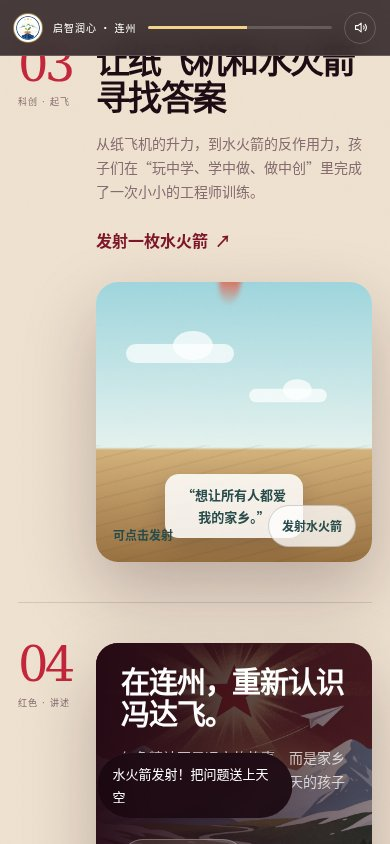
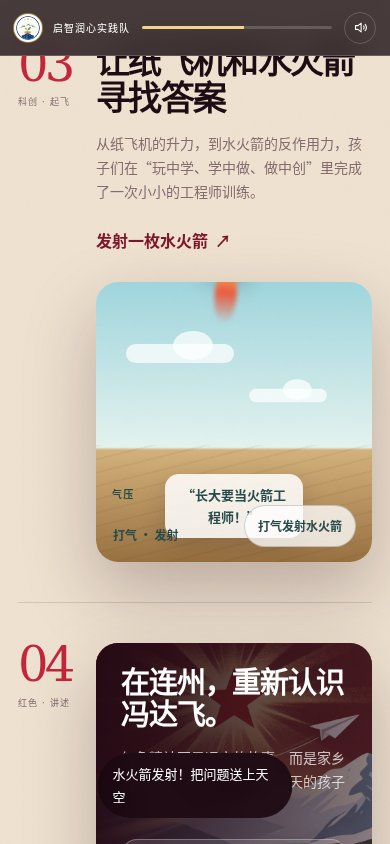
feat: 完善0120304交互游戏细节 + 顶栏仅保留'启智润心实践队'
- 顶栏去除'连州'，仅显'启智润心实践队'
- 01醒狮：照片内'三声鼓唤醒'互动（粒子+盖章+鼓点+连击进度+banner'醒'）
- 02漆扇：选色滴漆入水（4色可选，滴漆动画+入水计数,3色后纹样展开）
- 03水火箭：打气→气压条→自动发射+愿望+微震
- 04红色：翻开来信'冯达飞'故事卡(3D flip)+史实来源标注
- make_keyframes.py: 修正火箭打气时序
- 重新生成全页/hero/关键帧截图(均<10MB, RGB/100DPI)

diff --git a/index.html b/index.html
@@ -183,6 +183,7 @@
     .stage-photo figcaption{position:absolute;z-index:1;left:18px;right:18px;bottom:16px;color:#fff;font-size:12px}
     .stage-photo figcaption b{display:block;margin-bottom:2px;color:var(--gold-light);font-family:Georgia,serif;font-size:18px}
     .stage-action{display:inline-flex;align-items:center;gap:7px;margin-top:6px;border:0;padding:0;color:var(--red-deep);font-weight:800;background:transparent}
+    .stage-note{margin:0 0 10px;color:var(--red-deep);font-size:14px;font-weight:800}
 
     .interactive-tray{display:flex;flex-wrap:wrap;gap:11px;margin-top:28px}
     .tray-chip{display:inline-flex;align-items:center;gap:8px;padding:9px 12px;border:1px solid var(--line);border-radius:999px;color:var(--ink);background:rgba(255,255,255,.48);font-size:12px}
@@ -351,6 +352,56 @@
       .wish{padding-top:78px;padding-bottom:88px}.wish-form{flex-direction:column}
       .final{padding-top:95px;padding-bottom:55px}
     }
+    /* --- 01 醒狮：三声鼓唤醒 --- */
+    .stage-photo .lion-tap{
+      position:absolute;z-index:4;left:50%;top:50%;transform:translate(-50%,-50%);
+      width:92px;height:92px;border-radius:50%;border:1px solid rgba(244,211,138,.65);
+      color:var(--gold-light);background:rgba(15,6,12,.55);backdrop-filter:blur(8px);
+      display:grid;place-items:center;box-shadow:0 0 0 0 rgba(244,211,138,0);cursor:pointer;
+      transition:transform .2s ease,background .2s ease;
+    }
+    .stage-photo .lion-tap:hover{transform:translate(-50%,-50%) scale(1.07);background:rgba(196,38,59,.82)}
+    .stage-photo .lion-tap svg{width:38px;height:38px;pointer-events:none}
+    .stage-photo .lion-tap.ring{animation:ring .5s ease}
+    @keyframes ring{0%{box-shadow:0 0 0 0 rgba(244,211,138,.55)}100%{box-shadow:0 0 0 38px rgba(244,211,138,0)}}
+    .stage-photo .lion-tap.awake{background:rgba(196,38,59,.9)}
+    .lion-race{position:absolute;z-index:3;left:16px;top:16px;right:16px;display:flex;align-items:center;gap:9px;color:#fff;font-size:12px}
+    .lion-race b{color:var(--gold-light);letter-spacing:.14em}
+    .lion-beats{margin-left:auto;display:flex;gap:6px}
+    .lion-beats i{width:11px;height:11px;border-radius:50%;border:1px solid rgba(255,255,255,.75);background:transparent;transition:background .2s ease,border-color .2s ease}
+    .lion-beats i.on{background:var(--gold-light);border-color:var(--gold-light)}
+    .roar-word{position:absolute;z-index:4;left:50%;top:30%;transform:translate(-50%,-50%) scale(.5);opacity:0;color:var(--gold-light);font-family:Georgia,"Noto Serif SC",serif;font-size:70px;font-weight:700;letter-spacing:.04em;pointer-events:none;text-shadow:0 6px 26px rgba(0,0,0,.4);transition:opacity .3s ease,transform .3s ease}
+    .roar-word.show{opacity:1;transform:translate(-50%,-50%) scale(1)}
+
+    /* --- 02 漆扇：选色滴漆 --- */
+    .paint-swatches{position:absolute;z-index:4;left:50%;bottom:16px;transform:translateX(-50%);display:flex;gap:10px}
+    .paint-swatches .swatch{width:32px;height:32px;border-radius:50%;border:2px solid rgba(255,255,255,.9);box-shadow:0 6px 14px rgba(0,0,0,.18);cursor:pointer;transition:transform .2s ease}
+    .paint-swatches .swatch:hover{transform:scale(1.16)}
+    .paint-swatches .swatch:active{transform:scale(.9)}
+    .paint-drop{position:absolute;z-index:2;width:18px;height:18px;border-radius:50%;filter:blur(1px);opacity:0;transform:translate(-50%,-50%) scale(.4);animation:dropIn .6s ease forwards}
+    @keyframes dropIn{0%{opacity:0;transform:translate(-50%,-50%) scale(.4)}55%{opacity:1;transform:translate(-50%,-50%) scale(1.3)}100%{opacity:.92;transform:translate(-50%,-50%) scale(1)}}
+    .paint-counter{position:absolute;z-index:4;right:18px;top:16px;color:var(--red-deep);font-size:11px;letter-spacing:.1em;background:rgba(255,255,255,.72);padding:4px 9px;border-radius:999px}
+    .paint-pad.done .paint-counter{color:#fff;background:rgba(126,22,41,.4)}
+
+    /* --- 03 水火箭：打气 → 发射 --- */
+    .rocket-gauge{position:absolute;z-index:4;left:16px;bottom:54px;width:132px;color:#284c4b}
+    .rocket-gauge small{display:block;font-size:10px;letter-spacing:.12em;margin-bottom:6px;font-weight:800}
+    .rocket-gauge .bar{height:13px;border-radius:999px;background:rgba(40,76,75,.18);overflow:hidden}
+    .rocket-gauge .bar i{display:block;width:0;height:100%;border-radius:999px;background:linear-gradient(90deg,#8fd0d8,#4d9ba0);transition:width .25s ease}
+    .rocket-zone.shake{animation:shake .4s ease}
+    @keyframes shake{0%,100%{transform:translateX(0)}20%{transform:translateX(-5px)}40%{transform:translateX(5px)}60%{transform:translateX(-4px)}80%{transform:translateX(4px)}}
+
+    /* --- 04 红色：翻开来信 --- */
+    .red-flip{position:relative;margin-top:16px;perspective:1000px;cursor:pointer}
+    .red-flip .flip-inner{position:relative;transform-style:preserve-3d;transition:transform .6s cubic-bezier(.2,.75,.25,1)}
+    .red-flip.flipped .flip-inner{transform:rotateY(180deg)}
+    .red-flip .face{backface-visibility:hidden;border-radius:16px;overflow:hidden}
+    .red-flip .front{background:rgba(255,255,255,.12);border:1px solid rgba(255,255,255,.3);padding:15px 17px;color:#fff;font-size:14px;font-weight:800;display:flex;align-items:center;justify-content:space-between;gap:9px}
+    .red-flip .front .tag{font-size:10px;letter-spacing:.12em;background:rgba(196,38,59,.65);padding:3px 8px;border-radius:999px}
+    .red-flip .back{position:absolute;inset:0;transform:rotateY(180deg);background:#f8f0e5;color:#1b0d13;padding:17px 18px;font-size:13px;line-height:1.72}
+    .red-flip .back b{color:var(--red-deep);font-family:Georgia,"Noto Serif SC",serif;font-size:16px}
+    .red-flip .back .cite{display:block;margin-top:10px;color:var(--muted);font-size:11px}
+
     @media (prefers-reduced-motion:reduce){
       html{scroll-behavior:auto}
       *,*::before,*::after{animation-duration:.01ms!important;animation-iteration-count:1!important;transition-duration:.01ms!important}
@@ -361,7 +412,7 @@
   <nav class="topbar" aria-label="页面导航">
     <a class="top-brand" href="#top">
       <span class="brand-logo"><img id="brandLogo" src="assets/team_logo.png" alt="启智润心实践队队徽"></span>
-      <span>启智润心 · 连州</span>
+      <span>启智润心实践队</span>
     </a>
     <div class="top-chapters" aria-label="章节导航">
       <a class="chapter-dot active" href="#top" aria-label="首页"></a>
@@ -434,9 +485,15 @@
             <h3>把狮头交给孩子</h3>
             <p class="stage-quote">当孩子第一次举起狮头，传统才真正开始传承。</p>
             <p>从“老师讲、孩子看”，到“孩子举、孩子学、孩子演”。非遗从展柜里走出来，变成一双可以握住的手。</p>
-            <button id="lionHint" class="stage-action" type="button">点醒首页的醒狮 <span>↗</span></button>
+            <p class="stage-note">连打三声鼓，把右边这头醒狮唤醒。</p>
+            <button id="lionHint" class="stage-action" type="button">点醒这头醒狮 <span>↗</span></button>
           </div>
-          <figure class="stage-photo"><img src="assets/heritage_liondance_1024x768.jpg" alt="醒狮教学现场" loading="lazy" decoding="async"><figcaption><b>醒狮工作坊</b>可动手 · 可表演 · 可带走</figcaption></figure>
+          <figure class="stage-photo"><img src="assets/heritage_liondance_1024x768.jpg" alt="醒狮教学现场" loading="lazy" decoding="async">
+            <div class="lion-race"><b>鼓点</b><span class="lion-beats"><i></i><i></i><i></i></span></div>
+            <div class="roar-word">醒</div>
+            <button id="stageLion" class="lion-tap" type="button" aria-label="点醒这头醒狮"><svg viewBox="0 0 24 24" fill="none" stroke="currentColor" stroke-width="1.5" stroke-linecap="round" stroke-linejoin="round" aria-hidden="true"><path d="M12 3c1.8 2.1 4.6 2.6 6.7 1.9.1 2.2-1.2 3.8-3 4.8 2.4.5 4.3 2.3 4.3 4.8 0 3.6-3.4 6.2-8 6.2s-8-2.6-8-6.2c0-2.5 1.9-4.3 4.3-4.8-1.8-1-3.1-2.6-3-4.8C7.4 5.6 10.2 5.1 12 3Z"/><circle cx="9" cy="13" r="1"/><circle cx="15" cy="13" r="1"/><path d="M9 16c1.8 1.1 4.2 1.1 6 0"/></svg></button>
+            <figcaption><b>醒狮工作坊</b>可动手 · 可表演 · 可带走</figcaption>
+          </figure>
         </div>
       </article>
 
@@ -446,6 +503,13 @@
           <div id="paintPad" class="paint-pad clickable" role="button" tabindex="0" aria-label="点击展开漆扇纹样">
             <div class="paint-copy">点击水面，看看这一把“只属于今天”的漆扇。</div>
             <div class="paint-surface" aria-hidden="true"></div>
+            <span class="paint-counter">已入水 0 色</span>
+            <div class="paint-swatches" aria-label="选择颜色滴漆">
+              <button class="swatch" type="button" data-c="#c4263b" style="background:#c4263b" aria-label="红"></button>
+              <button class="swatch" type="button" data-c="#dca23f" style="background:#dca23f" aria-label="金"></button>
+              <button class="swatch" type="button" data-c="#4d9ba0" style="background:#4d9ba0" aria-label="青"></button>
+              <button class="swatch" type="button" data-c="#6c254e" style="background:#6c254e" aria-label="紫"></button>
+            </div>
             <button id="paintSave" class="paint-save" type="button">存下这把扇子</button>
           </div>
           <div class="stage-copy">
@@ -466,8 +530,9 @@
           </div>
           <div id="rocketZone" class="rocket-zone">
             <span class="cloud" aria-hidden="true"></span><span class="cloud two" aria-hidden="true"></span><div class="rocket" aria-hidden="true"></div>
+            <div class="rocket-gauge"><small>气压</small><span class="bar"><i id="pressureFill"></i></span></div>
             <div id="rocketWish" class="rocket-wish" role="status">“我要造一艘能飞到星星去的船！”</div>
-            <span class="rocket-label">可点击发射</span><button id="rocketButton" class="rocket-btn" type="button">发射水火箭</button>
+            <span class="rocket-label">打气 · 发射</span><button id="rocketButton" class="rocket-btn" type="button">打气发射水火箭</button>
           </div>
         </div>
       </article>
@@ -475,7 +540,7 @@
       <article class="stage reveal">
         <div class="stage-index">04<small>红色 · 讲述</small></div>
         <div class="stage-content flip">
-          <div class="red-card"><img src="assets/red_spirit_1024x768.jpg" alt="红色主题课堂与舞台剧" loading="lazy" decoding="async"><div class="red-card-content"><h4>在连州，重新认识冯达飞。</h4><p>红色精神不是远方的故事，而是家乡真实存在过的名字，也是今天的孩子可以继续讲下去的故事。</p><button id="factCardButton" class="fact-btn" type="button">打开史实表达提示</button></div></div>
+          <div class="red-card"><img src="assets/red_spirit_1024x768.jpg" alt="红色主题课堂与舞台剧" loading="lazy" decoding="async"><div class="red-card-content"><h4>在连州，重新认识冯达飞。</h4><p>红色精神不是远方的故事，而是家乡真实存在过的名字，也是今天的孩子可以继续讲下去的故事。</p><div id="redFlip" class="red-flip clickable" role="button" tabindex="0" aria-label="翻开红色来信"><div class="flip-inner"><div class="face front">翻开这封红色来信<span class="tag">冯达飞</span></div><div class="face back"><b>冯达飞</b>，广东连州人，中共党员，黄埔军校首期学员，参加过南昌起义，是中国空军早期飞行员之一。他用生命践行了理想。<span class="cite">据公开史料整理；本页为艺术化演绎，表达经可核验资料与指导老师把关。</span></div></div></div><button id="factCardButton" class="fact-btn" type="button">打开史实表达提示</button></div></div>
           <div class="stage-copy">
             <h3>从“老师讲”到“学生演 + 学生讲”</h3>
             <p>我们用舞台剧、长征体验和数字创作，把“听故事”变成“演故事、讲故事”。技术只做放大器，真正被留下的，是孩子们对家乡和国家的情感。</p>
@@ -654,7 +719,7 @@
       showToast('醒狮已醒 · 咚！');
     }
     document.getElementById('lionButton').addEventListener('click',wakeLion);
-    document.getElementById('lionHint').addEventListener('click',()=>{document.getElementById('lionButton').scrollIntoView({behavior:'smooth',block:'center'});setTimeout(wakeLion,500)});
+    document.getElementById('lionHint').addEventListener('click',()=>{document.getElementById('stageLion').scrollIntoView({behavior:'smooth',block:'center'});setTimeout(beatLion,500)});
 
     /* ---------- 漆扇 ---------- */
     const paintPad=document.getElementById('paintPad');
@@ -680,7 +745,7 @@
       setTimeout(()=>rocketZone.classList.remove('launch'),1500);
       setTimeout(()=>rocketWish.classList.remove('show'),4200);
     }
-    document.getElementById('rocketButton').addEventListener('click',launchRocket);
+    document.getElementById('rocketButton').addEventListener('click',pumpRocket);
     document.getElementById('launchHint').addEventListener('click',()=>{rocketZone.scrollIntoView({behavior:'smooth',block:'center'});setTimeout(launchRocket,500)});
 
     /* ---------- 史实弹窗 ---------- */
@@ -816,6 +881,68 @@
       showToast(soundOn?'环境音已开启（点击醒狮可听到鼓点）':'环境音已关闭');
       if(soundOn)playDrum();
     });
+
+    /* ---------- 01 醒狮：三声鼓唤醒 ---------- */
+    const stageLion=document.getElementById('stageLion');
+    const lionBeatsEls=[...document.querySelectorAll('.stage-photo .lion-beats i')];
+    const roarWord=document.querySelector('.roar-word');
+    let lionBeats=0;
+    function beatLion(){
+      if(!stageLion)return;
+      lionBeats=Math.min(lionBeats+1,3);
+      stageLion.classList.remove('ring');void stageLion.offsetWidth;stageLion.classList.add('ring');
+      try{playDrum()}catch(e){}
+      showToast(lionBeats>=3?'醒狮醒啦！锣鼓一响，好戏开场！':'咚——第 '+lionBeats+' 声鼓点');
+      lionBeatsEls.forEach((el,i)=>el.classList.toggle('on',i<lionBeats));
+      if(lionBeats>=3){
+        roarWord.classList.add('show');stageLion.classList.add('awake');
+        setTimeout(()=>{lionBeats=0;roarWord.classList.remove('show');stageLion.classList.remove('awake');lionBeatsEls.forEach(el=>el.classList.remove('on'))},2200);
+      }
+    }
+    if(stageLion)stageLion.addEventListener('click',e=>{e.stopPropagation();beatLion()});
+
+    /* ---------- 02 漆扇：选色滴漆 ---------- */
+    const paintSurfaceEl=document.querySelector('.paint-surface');
+    const paintCounter=document.querySelector('.paint-counter');
+    let paintDrops=0;
+    document.querySelectorAll('.paint-swatches .swatch').forEach(sw=>{
+      sw.addEventListener('click',e=>{
+        e.stopPropagation();
+        const c=sw.dataset.c;paintDrops++;
+        const s=document.createElement('span');s.className='paint-drop';
+        s.style.background=c;s.style.left=(20+Math.random()*58)+'%';s.style.top=(26+Math.random()*48)+'%';
+        if(paintSurfaceEl)paintSurfaceEl.appendChild(s);
+        if(paintCounter)paintCounter.textContent='已入水 '+paintDrops+' 色';
+        showToast(paintDrops>=3?'颜色入水，纹样在展开……':'又滴入了一滴颜色');
+        if(paintDrops>=3&&!paintPad.classList.contains('done'))revealPaint();
+      });
+    });
+
+    /* ---------- 03 水火箭：打气 → 发射 ---------- */
+    const pressureFill=document.getElementById('pressureFill');
+    const rocketBtn=document.getElementById('rocketButton');
+    let rocketCharged=false;
+    function pumpRocket(){
+      if(!rocketZone)return;
+      if(rocketCharged){launchRocket();return;}
+      rocketCharged=true;rocketZone.classList.add('charged');
+      if(pressureFill)pressureFill.style.width='100%';
+      if(rocketBtn)rocketBtn.textContent='发射！';
+      try{playDrum()}catch(e){}
+      showToast('正在打气——气压拉满');
+      setTimeout(()=>{
+        rocketZone.classList.add('shake');rocketZone.classList.remove('charged');
+        if(pressureFill)pressureFill.style.width='0%';
+        launchRocket();rocketCharged=false;
+        setTimeout(()=>rocketZone.classList.remove('shake'),450);
+        if(rocketBtn)rocketBtn.textContent='打气发射水火箭';
+      },900);
+    }
+
+    /* ---------- 04 红色：翻开来信 ---------- */
+    const redFlip=document.getElementById('redFlip');
+    const flipLetter=()=>{redFlip&&redFlip.classList.toggle('flipped')};
+    if(redFlip){redFlip.addEventListener('click',flipLetter);redFlip.addEventListener('keydown',e=>{if(e.key==='Enter'||e.key===' '){e.preventDefault();flipLetter()}})}
 
     initReveal();
     updateProgress();

diff --git a/make_keyframes.py b/make_keyframes.py
@@ -50,7 +50,7 @@ with sync_playwright() as p:
     page.locator("#rocketZone").scroll_into_view_if_needed()
     page.wait_for_timeout(300)
     page.locator("#rocketButton").click()
-    page.wait_for_timeout(650)  # 火箭升空(.launch 1500ms) + 愿望(.show 4200ms)
+    page.wait_for_timeout(1300)  # 打气约900ms后发射；愿望.show持续4200ms
     save_jpeg(page.screenshot(), "kf_03_rocket.jpg")
 
     # 04 纸飞机祝福卡生成
